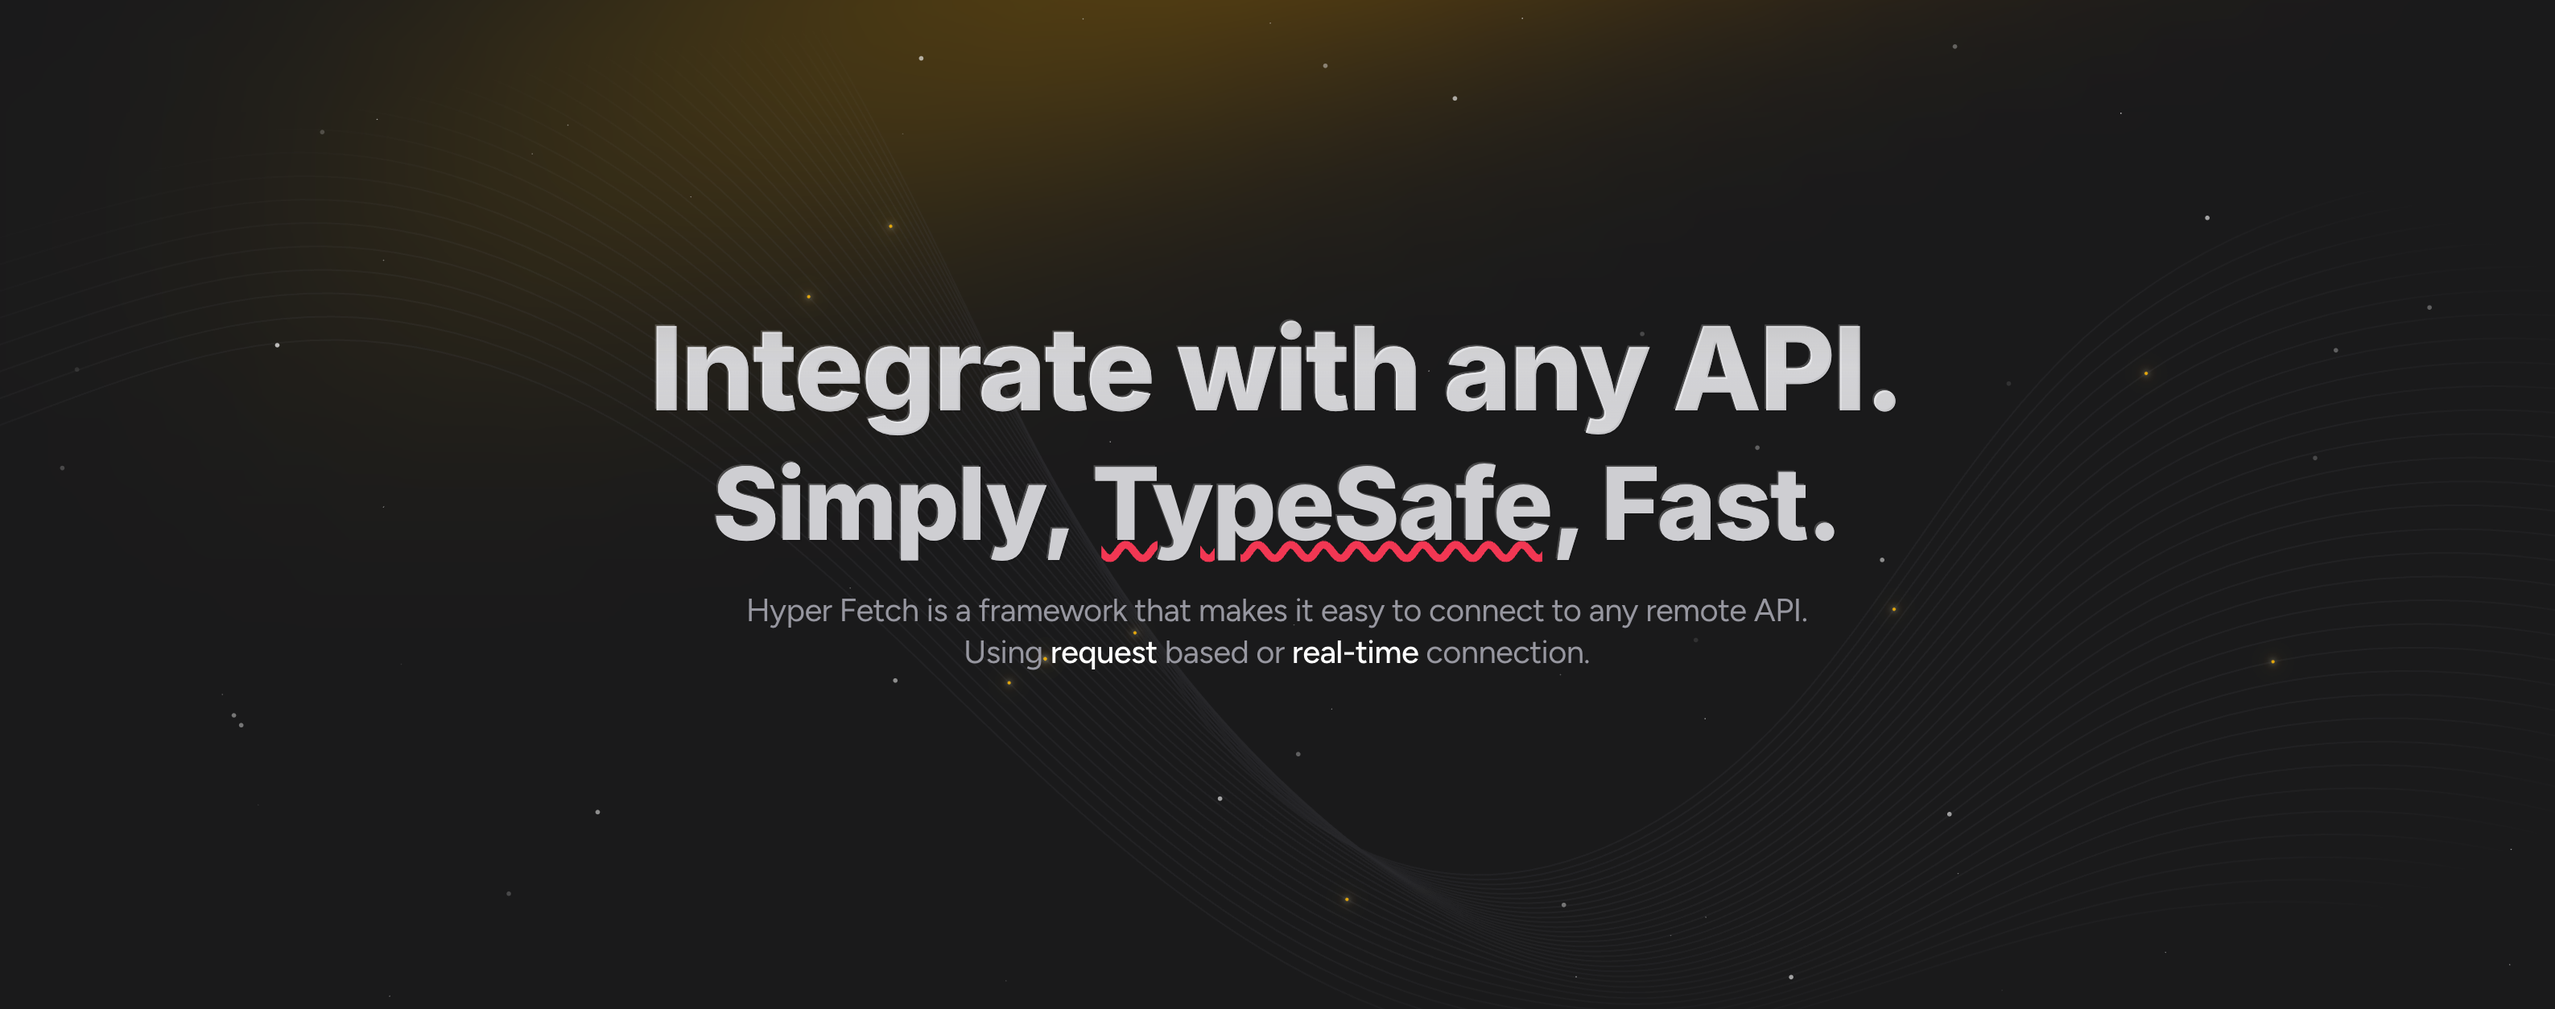
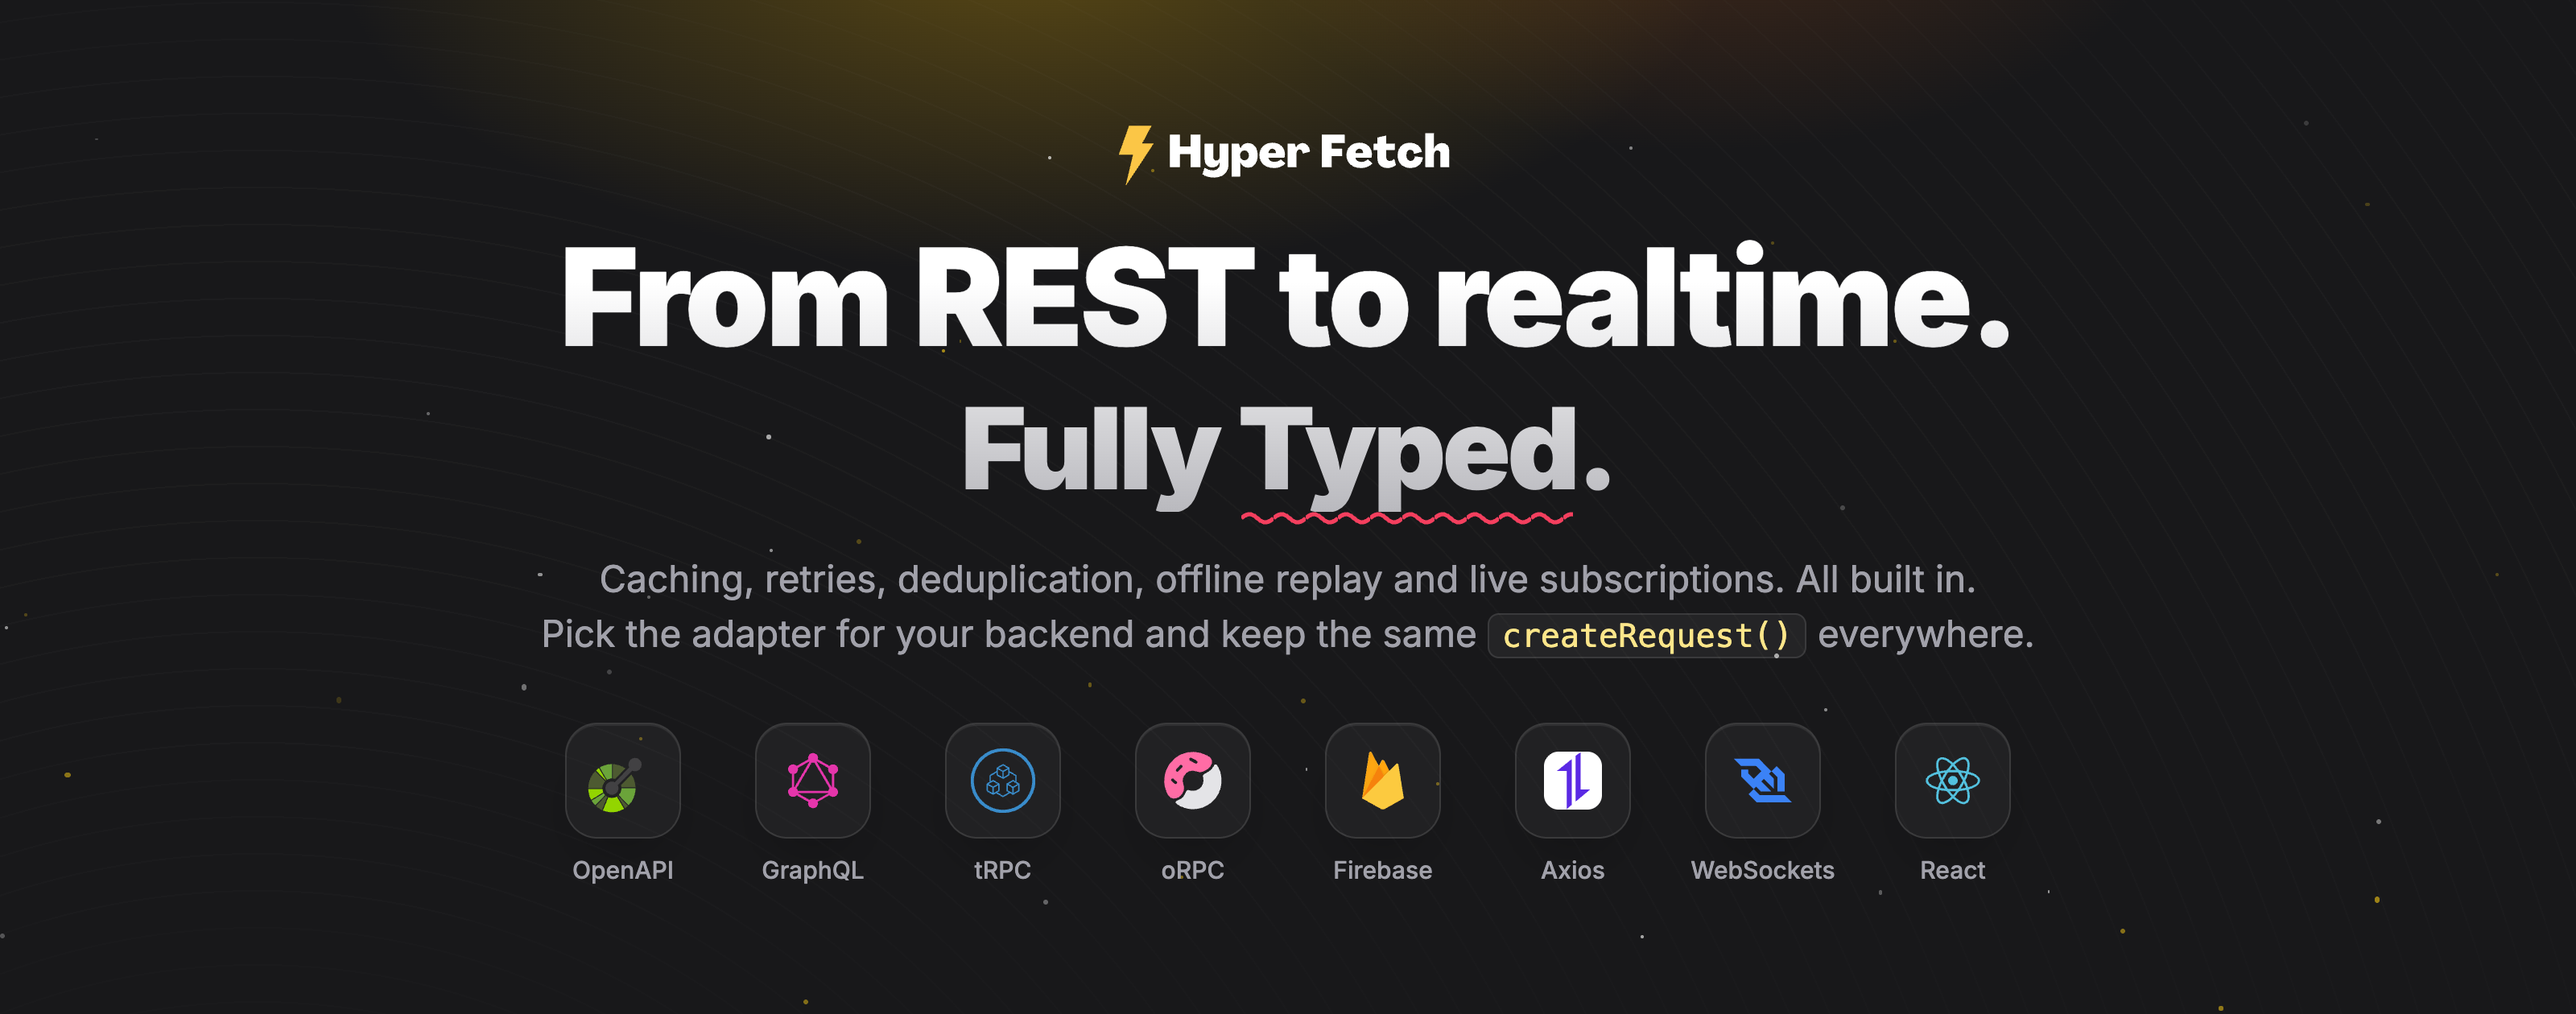
docs: ✏ lead the hero and readme with the backends hyper fetch supports
"One SDK. Any API." gave readers nothing to check. The landing hero and the README banner now say
"From REST to realtime. Fully typed." and show the backend logos: OpenAPI, GraphQL, tRPC, oRPC,
Firebase, Axios, WebSockets and React. On the landing page the logo row sits between the
description and the buttons.

The README no longer repeats the banner text. It opens with one code block that sends the same
request through the REST, GraphQL, Firebase and Axios clients, then a socket listener and a linked
"Works with" logo grid. Badges move to shields.io, em dashes are gone and the license line now says
Apache-2.0, which is what License.md and package.json declare.

The Hype Stack corner card is always the small one on the landing page, so it never covers the
hero. The brand, landing and README rules carry the new tagline and layout.

diff --git a/documentation/src/components/landing/hero/hero.tsx b/documentation/src/components/landing/hero/hero.tsx
@@ -7,6 +7,7 @@ import { ArrowRight, Sparkles } from "lucide-react";
 import { useWindowSize } from "@site/src/hooks/use-window-size";
 
 import { Paths } from "./paths/paths";
+import { Ecosystem } from "./ecosystem";
 import { AnimatedShinyText } from "../../ui/animated-shiny-text";
 
 export const Hero = () => {
@@ -44,7 +45,7 @@ export const Hero = () => {
           as="h1"
           className="font-extrabold text-4xl md:text-6xl lg:text-[4.5rem] leading-[1.1] md:!leading-[1.3] mt-3 md:mb-4 mb-0 md:mt-6 max-w-[90vw] text-center"
         >
-          One SDK. Any API. <br />
+          From REST to realtime. <br />
           <span className="font-extrabold text-3xl md:text-5xl lg:text-[3.9rem]">
             Fully{" "}
             <span className="font-extrabold text-3xl md:text-5xl lg:text-[3.9rem] relative">
@@ -65,13 +66,13 @@ export const Hero = () => {
           size="none"
           className="mb-3 md:mb-8 text-lg md:text-lg lg:text-xl text-zinc-300 dark:text-[#ababab] text-center !leading-[1.28] w-[660px] max-w-[90vw]"
         >
-          The type-safe API layer for TypeScript apps. Connect to{" "}
-          <span className="text-black dark:text-white" style={{ fontSize: "inherit" }}>
-            REST, GraphQL, Firebase, WebSockets, SSE
-          </span>{" "}
-          . All with one consistent interface and the best type safety in the ecosystem.
+          Caching, retries, deduplication, offline replay and live subscriptions. All built in. Pick the adapter for
+          your backend and keep the same{" "}
+          <code className="!text-[0.85em] !bg-white/5 !border-white/10 !text-zinc-200">createRequest()</code>{" "}
+          everywhere.
         </Description>
-        <div className="flex gap-4 mt-4 md:mt-10 flex-col md:flex-row justify-center mb-8">
+        <Ecosystem />
+        <div className="flex gap-4 mt-8 md:mt-10 flex-col md:flex-row justify-center mb-8">
           <Link
             to="docs/getting-started"
             className="!text-sm !md:text-md !lg:text-lg py-2 px-4 md:py-2 md:px-6 lg:py-2 lg:px-8 flex items-center !no-underline bg-gradient-to-br justify-center from-yellow-400 via-yellow-500 to-yellow-500 text-white dark:text-zinc-800 font-semibold rounded-xl max-w-full text-left hover:from-yellow-500 hover:to-yellow-400 dark:hover:from-yellow-500 dark:hover:to-yellow-400 hover:text-white hover:dark:text-zinc-900 transition-all"

diff --git a/documentation/src/components/landing/hero/ecosystem.tsx b/documentation/src/components/landing/hero/ecosystem.tsx
@@ -1,0 +1,48 @@
+import { motion } from "motion/react";
+
+/*
+ * The backends Hyper Fetch talks to, shown under the hero description. Each one is an adapter or a transport that
+ * keeps the same createRequest() and send() calls.
+ */
+const backends: { name: string; src: string; scale?: number }[] = [
+  { name: "OpenAPI", src: "/img/integration-openapi.svg", scale: 1.35 },
+  { name: "GraphQL", src: "/img/integration-graphql.svg" },
+  { name: "tRPC", src: "/img/integration-trpc.svg", scale: 1.12 },
+  { name: "oRPC", src: "/img/integration-orpc.svg" },
+  { name: "Firebase", src: "/img/integration-firebase.svg" },
+  { name: "Axios", src: "/img/integration-axios.svg" },
+  { name: "WebSockets", src: "/img/integration-sockets.svg" },
+  { name: "React", src: "/img/integration-react.svg" },
+];
+
+export const Ecosystem = () => {
+  return (
+    <ul className="grid grid-cols-4 sm:flex sm:flex-wrap justify-center gap-x-2 gap-y-4 sm:gap-x-3 md:gap-x-5 list-none !p-0 !m-0 mt-6 md:mt-4 max-w-[90vw]">
+      {backends.map((backend, index) => (
+        <motion.li
+          key={backend.name}
+          initial={{ opacity: 0, y: 8 }}
+          animate={{ opacity: 1, y: 0 }}
+          transition={{
+            duration: 0.4,
+            delay: 0.15 + index * 0.05,
+            ease: "easeOut",
+          }}
+          className="group flex flex-col items-center gap-2 w-[72px] md:w-[78px] !m-0"
+        >
+          <span className="flex items-center justify-center w-12 h-12 md:w-14 md:h-14 rounded-2xl border border-solid border-white/10 bg-white/[0.03] backdrop-blur-sm shadow-[inset_0_1px_0_rgba(255,255,255,0.06)] transition-all duration-200 group-hover:border-white/25 group-hover:bg-white/[0.07] group-hover:-translate-y-0.5">
+            <img
+              src={backend.src}
+              alt=""
+              className="w-6 h-6 md:w-7 md:h-7 object-contain"
+              style={backend.scale ? { transform: `scale(${backend.scale})` } : undefined}
+            />
+          </span>
+          <span className="text-xs text-zinc-400 group-hover:text-zinc-200 transition-colors duration-200 whitespace-nowrap">
+            {backend.name}
+          </span>
+        </motion.li>
+      ))}
+    </ul>
+  );
+};

diff --git a/documentation/src/components/hype-stack-card/hype-stack-card.tsx b/documentation/src/components/hype-stack-card/hype-stack-card.tsx
@@ -1,4 +1,5 @@
 import React, { useEffect, useState } from "react";
+import { useLocation } from "@docusaurus/router";
 import useBaseUrl from "@docusaurus/useBaseUrl";
 
 import "./hype-stack-card.css";
@@ -125,10 +126,11 @@ export function HypeStackCard() {
 
 /**
  * The same card pinned to the corner of the window. It is drawn only once the page runs, so someone who shrank it
- * never sees the whole card flash back.
+ * never sees the whole card flash back. On the landing page it is always the small one, so it never covers the hero.
  */
 export function HypeStackFloat() {
   const [small, shrink] = useShrunk();
+  const landing = useLocation().pathname === useBaseUrl("/");
   const [phone, setPhone] = useState(false);
   useEffect(() => {
     const query = window.matchMedia(PHONE);
@@ -138,7 +140,7 @@ export function HypeStackFloat() {
     return () => query.removeEventListener("change", read);
   }, []);
   if (small === null) return null;
-  const compact = small || phone;
+  const compact = small || phone || landing;
   return (
     <aside className="hs-ad-float" aria-label="From Hype Stack">
       <Card campaign="docs-float" small={compact} text />

diff --git a/README.md b/README.md
@@ -1,82 +1,100 @@
-<h1 align="center">
-
-<img src="./.github/assets/readme.png" alt="Hyper Fetch" />
-
-</h1>
-
-<div align="center">
-
-# Hyper Fetch
-
-**One SDK. Any API. Fully typed.**
-
-The type-safe API layer for TypeScript apps. Connect to REST, GraphQL, Firebase, WebSockets, SSE — all with one
-consistent interface and the best type safety in the ecosystem.
-
-**[Documentation](https://hyperfetch.bettertyped.com/) |
-[Quick Start](https://hyperfetch.bettertyped.com/docs/getting-started/quick-start) |
-[Guides](https://hyperfetch.bettertyped.com/docs/guides/Basic/Setup)**
-
-</div>
-
-<div align="center">
-  <a href="https://bettertyped.com/">
-    <img src="https://custom-icon-badges.demolab.com/static/v1?label=&message=BetterTyped&color=333&logo=BT" />
-  </a>
-  <a href="https://github.com/BetterTyped/hyper-fetch">
-    <img src="https://custom-icon-badges.demolab.com/github/stars/BetterTyped/hyper-fetch?logo=star&style=flat" />
-  </a>
-  <a href="https://github.com/BetterTyped/hyper-fetch/blob/main/License.md">
-    <img src="https://custom-icon-badges.demolab.com/github/license/BetterTyped/hyper-fetch?logo=law&color=blue" />
-  </a>
-  <a href="https://github.com/semantic-release/semantic-release">
-    <img src="https://custom-icon-badges.demolab.com/badge/semver-commitzen-e10079?logo=semantic-release&color=9146ff" />
-  </a>
-  <a href="https://www.npmjs.com/package/@hyper-fetch/core">
-    <img src="https://custom-icon-badges.demolab.com/npm/v/@hyper-fetch/core.svg?logo=npm&color=e76f51" />
-  </a>
-  <a href="https://www.npmjs.com/package/@hyper-fetch/core">
-    <img src="https://custom-icon-badges.demolab.com/npm/dm/@hyper-fetch/core?logoColor=fff&logo=trending-up" />
-  </a>
-  <a href="https://github.com/BetterTyped/hyper-fetch">
-    <img src="https://custom-icon-badges.demolab.com/badge/typescript-%23007ACC.svg?logo=typescript&logoColor=white" />
-  </a>
-  <a href="https://twitter.com/maciej_pyrc">
-    <img src="https://img.shields.io/twitter/follow/maciej_pyrc" alt="Follow on Twitter" />
-  </a>
-</div>
-
-<br />
-
 <p align="center">
-  <a href="https://discord.gg/7upC2kVmyM">
-    <img src="./.github/assets/discord.png" alt="Join our Discord community" />
-  </a>
+  <img src="./.github/assets/readme.png" alt="Hyper Fetch. From REST to realtime. Fully typed. Works with OpenAPI, GraphQL, tRPC, oRPC, Firebase, Axios, WebSockets and React." />
 </p>
 
-<br />
+<p align="center">
+  <a href="https://hyperfetch.bettertyped.com/docs/getting-started/quick-start"><b>Quick Start</b></a> ·
+  <a href="https://hyperfetch.bettertyped.com/">Documentation</a> ·
+  <a href="https://hyperfetch.bettertyped.com/docs/guides/Basic/Setup">Guides</a> ·
+  <a href="https://discord.gg/7upC2kVmyM">Discord</a>
+</p>
 
-## Quick Start
+<p align="center">
+  <a href="https://github.com/BetterTyped/hyper-fetch"><img src="https://img.shields.io/github/stars/BetterTyped/hyper-fetch?style=flat&logo=github&color=333" alt="GitHub stars" /></a>
+  <a href="https://www.npmjs.com/package/@hyper-fetch/core"><img src="https://img.shields.io/npm/v/@hyper-fetch/core?logo=npm&color=e76f51" alt="npm version" /></a>
+  <a href="https://www.npmjs.com/package/@hyper-fetch/core"><img src="https://img.shields.io/npm/dm/@hyper-fetch/core?color=fbc646" alt="npm downloads" /></a>
+  <a href="https://bundlejs.com/?q=@hyper-fetch/core"><img src="https://img.shields.io/bundlejs/size/@hyper-fetch/core?label=size" alt="Bundle size" /></a>
+  <a href="https://github.com/BetterTyped/hyper-fetch"><img src="https://img.shields.io/badge/TypeScript-strict-3178C6?logo=typescript&logoColor=white" alt="TypeScript" /></a>
+  <a href="https://github.com/BetterTyped/hyper-fetch/blob/main/License.md"><img src="https://img.shields.io/github/license/BetterTyped/hyper-fetch?color=blue" alt="License" /></a>
+  <a href="https://twitter.com/maciej_pyrc"><img src="https://img.shields.io/twitter/follow/maciej_pyrc" alt="Follow on Twitter" /></a>
+</p>
 
-### Define requests manually
+## ⚡ One request shape on every backend
+
+Pick the adapter for your backend. Everything after that is the same: `createRequest()`, `send()`, the React hooks,
+the cache, retries, deduplication and offline replay.
+
+```ts
+import { createClient } from "@hyper-fetch/core";
+import { GraphqlAdapter } from "@hyper-fetch/graphql";
+import { FirebaseAdapter } from "@hyper-fetch/firebase";
+import { AxiosAdapter } from "@hyper-fetch/axios";
+
+const rest = createClient({ url: "https://api.example.com" });
+const graphql = createClient({ url: "https://api.example.com/graphql" }).setAdapter(GraphqlAdapter());
+const firestore = createClient({ url: "" }).setAdapter(FirebaseAdapter(getFirestore()));
+const axios = createClient({ url: "https://api.example.com" }).setAdapter(AxiosAdapter);
+
+// The request looks the same whichever client made it
+const getUser = rest.createRequest<{ response: User }>()({ endpoint: "/users/:userId" });
+
+// data, error and status are typed. send() never throws
+const { data, error, status } = await getUser.setParams({ userId: 1 }).send();
+```
+
+Realtime uses the same typed model, over WebSockets or Server-Sent Events:
+
+```ts
+import { Socket } from "@hyper-fetch/sockets";
+
+const socket = new Socket({ url: "wss://api.example.com" });
+const onMessage = socket.createListener<{ response: Message }>()({ endpoint: "chat-message" });
+
+onMessage.listen({ callback: ({ data }) => console.log(data.text) });
+```
+
+## 🔌 Works with
+
+<table align="center">
+  <tr>
+    <td align="center" width="120"><a href="https://hyperfetch.bettertyped.com/docs/core/overview"><img src="./documentation/static/img/integration-rest.svg" width="40" height="40" alt="" /><br /><b>REST</b></a><br /><sub>core</sub></td>
+    <td align="center" width="120"><a href="https://hyperfetch.bettertyped.com/docs/cli/commands/generate"><img src="./documentation/static/img/integration-openapi.svg" width="40" height="40" alt="" /><br /><b>OpenAPI</b></a><br /><sub>cli</sub></td>
+    <td align="center" width="120"><a href="https://hyperfetch.bettertyped.com/docs/integrations/adapter-graphql/overview"><img src="./documentation/static/img/integration-graphql.svg" width="40" height="40" alt="" /><br /><b>GraphQL</b></a><br /><sub>graphql</sub></td>
+    <td align="center" width="120"><img src="./documentation/static/img/integration-trpc.svg" width="40" height="40" alt="" /><br /><b>tRPC</b><br /><sub>coming soon</sub></td>
+    <td align="center" width="120"><img src="./documentation/static/img/integration-orpc.svg" width="40" height="40" alt="" /><br /><b>oRPC</b><br /><sub>coming soon</sub></td>
+  </tr>
+  <tr>
+    <td align="center" width="120"><a href="https://hyperfetch.bettertyped.com/docs/integrations/adapter-firebase/overview"><img src="./documentation/static/img/integration-firebase.svg" width="40" height="40" alt="" /><br /><b>Firebase</b></a><br /><sub>firebase</sub></td>
+    <td align="center" width="120"><a href="https://hyperfetch.bettertyped.com/docs/integrations/adapter-firebase-admin/overview"><img src="./documentation/static/img/integration-firebase.svg" width="40" height="40" alt="" /><br /><b>Firebase Admin</b></a><br /><sub>firebase-admin</sub></td>
+    <td align="center" width="120"><a href="https://hyperfetch.bettertyped.com/docs/integrations/adapter-axios/overview"><img src="./documentation/static/img/integration-axios.svg" width="40" height="40" alt="" /><br /><b>Axios</b></a><br /><sub>axios</sub></td>
+    <td align="center" width="120"><a href="https://hyperfetch.bettertyped.com/docs/sockets/overview"><img src="./documentation/static/img/integration-sockets.svg" width="40" height="40" alt="" /><br /><b>Realtime</b></a><br /><sub>WebSockets, SSE</sub></td>
+    <td align="center" width="120"><a href="https://hyperfetch.bettertyped.com/docs/react/overview"><img src="./documentation/static/img/integration-react.svg" width="40" height="40" alt="" /><br /><b>React</b></a><br /><sub>react</sub></td>
+  </tr>
+</table>
+
+## 🚀 Quick Start
+
+```bash
+npm install @hyper-fetch/core @hyper-fetch/react
+```
+
+### Define requests by hand
 
 ```ts
 import { createClient } from "@hyper-fetch/core";
 
-// Create a client — this is the single entry point for all your API calls
 const client = createClient({ url: "https://api.example.com" });
 
-// Define a typed request — response shape is inferred everywhere from here
+// The response type follows this request into send(), hooks and the cache
 const getUsers = client.createRequest<{ response: { id: number; name: string }[] }>()({
   endpoint: "/users",
   method: "GET",
 });
 
-// Send it — data, error, and status are fully typed
 const { data, error, status } = await getUsers.send();
 ```
 
-### Or generate from OpenAPI
+### Or generate them from OpenAPI
 
 ```bash
 npx @hyper-fetch/cli generate --url https://api.example.com/openapi.json
@@ -85,17 +103,16 @@ npx @hyper-fetch/cli generate --url https://api.example.com/openapi.json
 ```ts
 import { sdk } from "./generated";
 
-// Every endpoint from your schema is available as a typed method
+// Every endpoint in your schema becomes a typed request
 const { data } = await sdk.users.list.send();
 ```
 
 ## Why HyperFetch?
 
-- 🔮 **Zero guesswork** — End-to-end TypeScript types from schema to response, full autocompletion, zero `any`
-- 📡 **One interface for everything** — REST, GraphQL, Firebase, WebSockets, SSE — stop learning a new library for each
-  API
-- 💾 **Data management built in** — Caching, queuing, offline support, retries, and deduplication out of the box
-- ⚡ **Works everywhere** — React, Next.js, Remix, Astro, Node.js, Bun — same API, every environment
+- 🔮 **Zero guesswork** - Types flow from your schema to the response. Full autocompletion and no `any`
+- 📡 **One model for every transport** - REST, GraphQL, Firebase, WebSockets and SSE share one request API
+- 💾 **Data management built in** - Caching, queuing, offline replay, retries and deduplication out of the box
+- ⚡ **Works everywhere** - React, Next.js, Remix, Astro, Node.js and Bun run the same code
 
 ---
 
@@ -160,14 +177,14 @@ Hyper Fetch is the data layer inside Hype Stack, the full-stack template I build
 ### Fetching data
 
 ```ts
-// Send and destructure — all return values are typed
+// Every value you get back is typed
 const { data, error, status } = await getUsers.send();
 ```
 
 ### Mutation with params and payload
 
 ```ts
-// Params go in the URL, data goes in the body — both fully typed
+// Params go in the URL and data goes in the body. Both are typed
 const { data, error, status } = await createUser.send({
   params: { teamId: 1 },
   data: { name: "Jane", email: "jane@example.com" },
@@ -224,4 +241,4 @@ const UserList = () => {
 
 ## License
 
-[MIT](https://github.com/BetterTyped/hyper-fetch/blob/main/License.md)
+[Apache-2.0](https://github.com/BetterTyped/hyper-fetch/blob/main/License.md)
